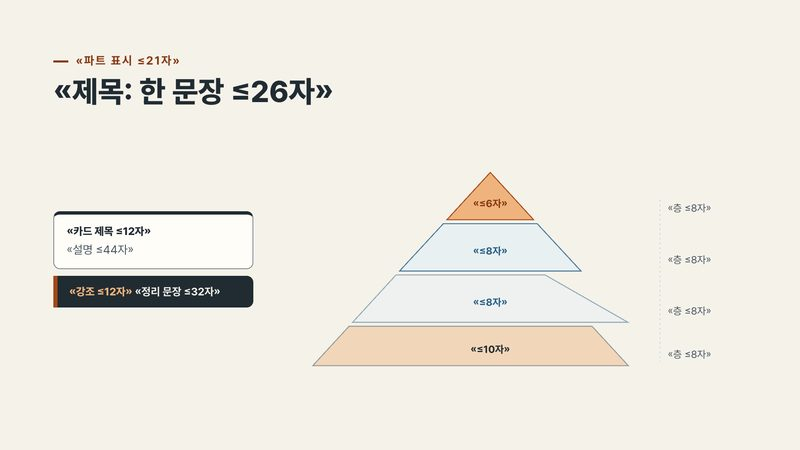
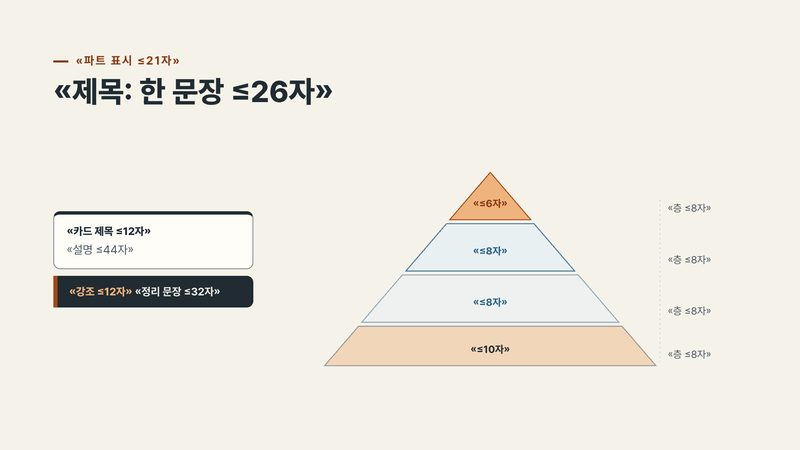
levels-3 피라미드 우변 돌출 수정: x=550 중심 좌우 대칭·좌우 빗변 잔차 ≤0.4px — 사용자 후속 QA

diff --git a/edu-deck/shared/assets/snippets/11-levels.html b/edu-deck/shared/assets/snippets/11-levels.html
@@ -57,10 +57,10 @@
       <div class="callout" data-step="6" style="font-size:26px;padding:20px 28px"><b>«강조 ≤12자»</b> «정리 문장 ≤32자»</div>
     </div>
     <svg class="dg" viewBox="0 0 1200 560" style="flex:1.4;min-width:0" aria-label="«그림 설명»">
-      <g data-step="4"><path d="M550 60L660 180H440Z" fill="var(--accent-light)" stroke="var(--accent)" stroke-width="2.5"/><text class="t-l o" text-anchor="middle" x="550" y="148">«≤6자»</text></g>
-      <g data-step="3"><path d="M431 190H669L780 310H320Z" fill="var(--blue-soft)" opacity=".85" stroke="var(--blue)" stroke-width="2.5"/><text class="t-l b" text-anchor="middle" x="550" y="268">«≤8자»</text></g>
-      <g data-step="2"><path d="M311 320H689L899 440H201Z" fill="var(--blue-soft)" opacity=".5" stroke="var(--blue)" stroke-width="2.5"/><text class="t-l b" text-anchor="middle" x="550" y="398">«≤8자»</text></g>
-      <g data-step="1"><path d="M192 450H808L900 550H100Z" fill="var(--accent-light)" opacity=".45" stroke="var(--ink)" stroke-width="2.5"/><text class="t-l" text-anchor="middle" x="550" y="518">«≤10자»</text></g>
+      <g data-step="4"><path d="M550 60L653 180H447Z" fill="var(--accent-light)" stroke="var(--accent)" stroke-width="2.5"/><text class="t-l o" text-anchor="middle" x="550" y="148">«≤6자»</text></g>
+      <g data-step="3"><path d="M439 190H661L764 310H336Z" fill="var(--blue-soft)" opacity=".85" stroke="var(--blue)" stroke-width="2.5"/><text class="t-l b" text-anchor="middle" x="550" y="268">«≤8자»</text></g>
+      <g data-step="2"><path d="M327 320H773L876 440H224Z" fill="var(--blue-soft)" opacity=".5" stroke="var(--blue)" stroke-width="2.5"/><text class="t-l b" text-anchor="middle" x="550" y="398">«≤8자»</text></g>
+      <g data-step="1"><path d="M216 450H884L970 550H130Z" fill="var(--accent-light)" opacity=".45" stroke="var(--ink)" stroke-width="2.5"/><text class="t-l" text-anchor="middle" x="550" y="518">«≤10자»</text></g>
       <path d="M980 130V540" stroke="var(--muted)" stroke-width="2" stroke-dasharray="4 8" fill="none"/>
       <text class="t-s" x="1000" y="160">«층 ≤8자»</text>
       <text class="t-s" x="1000" y="290">«층 ≤8자»</text>
